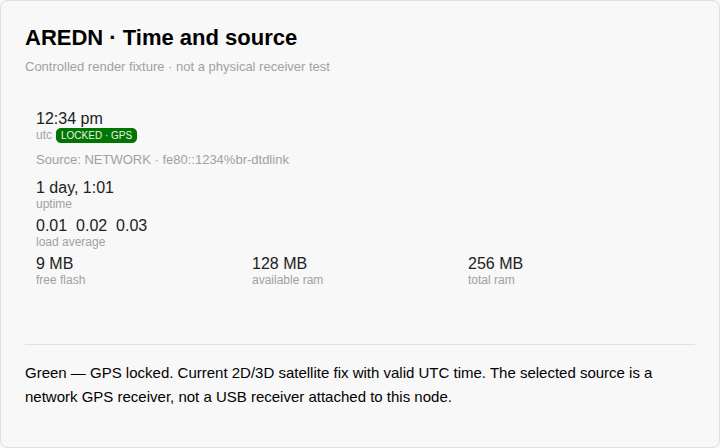
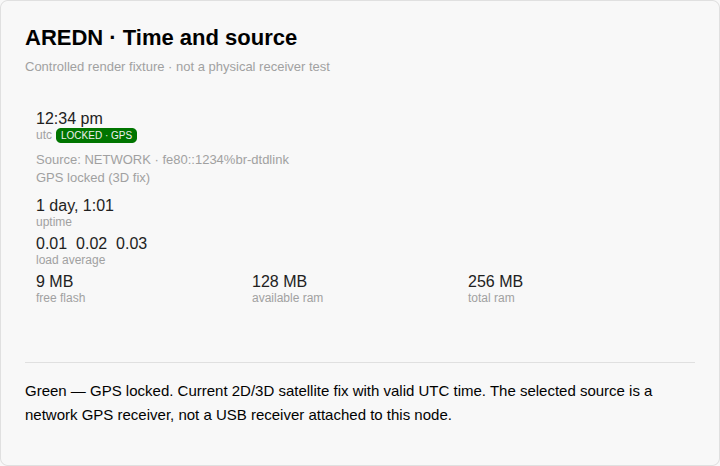
GUI: simplify time states and show diagnostic detail lines

diff --git a/files/app/resource/css/user.css b/files/app/resource/css/user.css
@@ -395,7 +395,8 @@ body.authenticated .ctrl:hover
 {
     background-color: var(--firmware-status-bg-color-negative);
 }
-#health .time-sync-source
+#health .time-sync-source,
+#health .time-sync-detail
 {
     margin-top: 3px;
     font-size: calc(var(--font-base-size) - 3px);

diff --git a/docs/time-source-ui.md b/docs/time-source-ui.md
@@ -7,11 +7,18 @@ visible without treating them as the same thing.
 |---|---|---|
 | `LOCKED · GPS` | Selected LOCAL/NETWORK receiver endpoint | Fresh receiver fix with valid UTC time |
 | `WAITING · GPS` | Selected endpoint, or explicitly unknown | Discovery, no satellite fix, or no valid receiver time |
-| `ERROR · GPS` | Selected endpoint where known | Missing source, failed connection/data, or stale health cache |
+| `ERROR · GPS` | Selected endpoint where known | Fresh observation of a missing source or failed receiver connection/data |
 | `SYNCED · NTP` | Actual successful one-shot target, or unknown daemon peer | Matching recent native synchronization evidence |
-| `LAST SYNC · NTP` | Historical target, or source not recorded | Old evidence or only the native synchronization marker |
 | `UNSYNCED · NTP` | Peer unknown when not exposed | Native daemon callback reports an unsynchronized stratum |
-| `STATUS OLD · NTP` | Unknown daemon peer | An expired unsynchronized report, not proof of a current fault or successful synchronization |
+| `STATUS UNKNOWN` | Historical source where known, otherwise explicitly unknown | Old, invalid, missing or unrecognized evidence cannot establish current status |
+
+The display uses exactly these six main labels. A **visible detail line** beneath
+the status and source retains the last synchronization source and UTC timestamp
+when recorded, observation age, expired-report explanation, or missing-evidence
+reason. These diagnostics do not require hovering over a tooltip. An expired
+unsynchronized NTP report is identified as a **last report**, never relabeled a
+successful synchronization. No synchronization marker means no synchronization
+is recorded, not proof that the clock is currently wrong.
 
 GPS lock is receiver health, not proof of PPS accuracy or continuous clock
 discipline. NTP evidence describes an observed native synchronization, not a GPS
@@ -22,6 +29,8 @@ Standard BusyBox callbacks expose stratum, not the selected peer.
 When NTP last synchronized the clock and a selected GPS receiver also has health
 data, a separate badge reports that receiver's lock. With no selected GPS source,
 working NTP does not produce an unrelated GPS alarm.
+The separate receiver badge uses `GPS UNKNOWN` for an expired observation and
+also has a visible receiver-detail line; healthy NTP remains `SYNCED · NTP`.
 
 ## Controlled-render examples
 
@@ -30,6 +39,7 @@ These screenshots use native-template fixtures, not live receiver measurements.
 ![GPS locked, selected network receiver](images/time-status/gps-locked.png)
 ![GPS waiting for a fix or valid time](images/time-status/gps-waiting.png)
 ![NTP synchronized, successful native command target](images/time-status/ntp-synced.png)
+![Unknown current status, with historical synchronization and age in the visible detail line](images/time-status/status-unknown.png)
 
 ## Display support
 
@@ -47,6 +57,9 @@ These screenshots use native-template fixtures, not live receiver measurements.
   stat NTP metadata.
 - GPS health expires after 90 seconds. Discovery retries retain the native
   ten-minute interval; the display can therefore report stale data between retries.
+  Expired or invalid observation metadata becomes `STATUS UNKNOWN`, not a
+  receiver fault. Fresh receiver failures remain `ERROR · GPS`. The last receiver
+  report and its age remain visible when the observation has expired.
   Partial cache writes are never published; failed temporary files are removed.
 - Native successful NTP paths gain best-effort metadata annotations. Annotation
   failure does not change the native synchronization result. The observer does
@@ -54,9 +67,10 @@ These screenshots use native-template fixtures, not live receiver measurements.
 - NTP metadata uses writer-specific temporary files and atomic rename. Marker
   mtime and monotonic timestamps reject mismatched/future records. One-shot
   evidence becomes historical after 24 hours; daemon evidence after 15 minutes.
-  Expired daemon errors become `STATUS OLD`, not a continuing current alarm.
+  Expired daemon reports become `STATUS UNKNOWN`, not a continuing current alarm
+  or a claimed current synchronization; their history remains in the detail line.
   Daemon records never certify a peer absent from the native callback.
-- Source text and tooltips are escaped. Explicit state words support all themes;
+- Source text, visible details and tooltips are escaped. Explicit state words support all themes;
   long source endpoints wrap.
 
 There is no USB-detection hook, installation prompt, package/dependency/release
@@ -78,7 +92,16 @@ Loopback GPSD fixtures use private ephemeral ports, and browser requests are
 intercepted. Tests exercise real repository templates, themes, and HTMX resources.
 These checks do not qualify physical receiver faults, reboots, or a firmware build.
 
-The reviewed candidate passes 126 native checks plus 10 baseline manager checks,
-7 private-loopback GPSD cases, 160 browser combinations, and 6 baseline / 6
-candidate NTP-script cases. Added regressions cover observer exceptions, partial
-cache writes, expired faults, inconsistent peers, and single-snapshot rendering.
+Regression coverage includes all six main labels, historical GPS/NTP markers,
+missing or unrecognized synchronization sources, stale GPS success/failure,
+future and invalid receiver observations, visible detail-line content and
+escaping, and independent GPS LOCK/WAIT/ERROR/UNKNOWN badges while NTP is in use.
+The runners also retain the observer-failure, cache-publication, native-cadence,
+source-attribution and single-snapshot checks.
+
+The six-label/detail-line revision passed 192 candidate native checks plus
+10 baseline manager checks, 7 private-loopback GPSD cases, 352 browser
+authentication/theme/size/state combinations, and 6 baseline / 6 candidate
+NTP-script cases. Three HTMX refreshes verified WAITING, ERROR and UNKNOWN
+transitions with visible detail updates; the time-settings interaction remained
+intact and there were no browser page errors.
